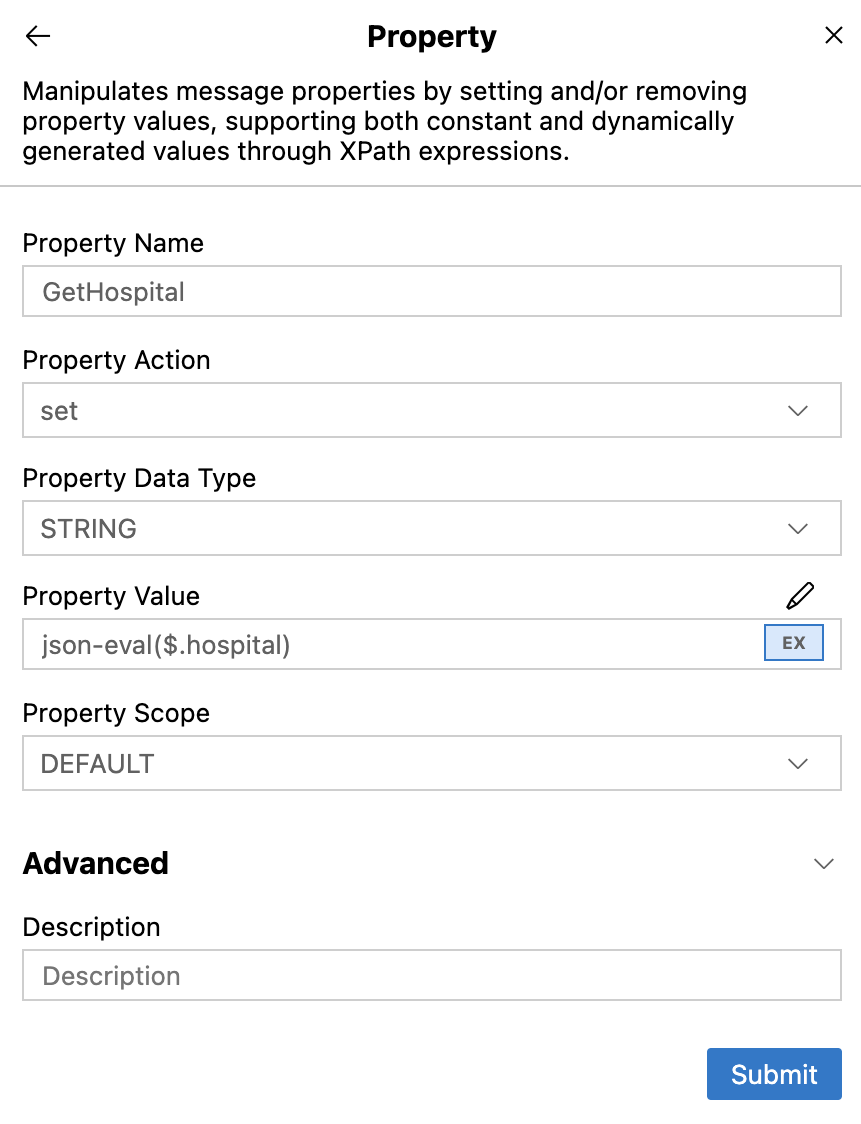
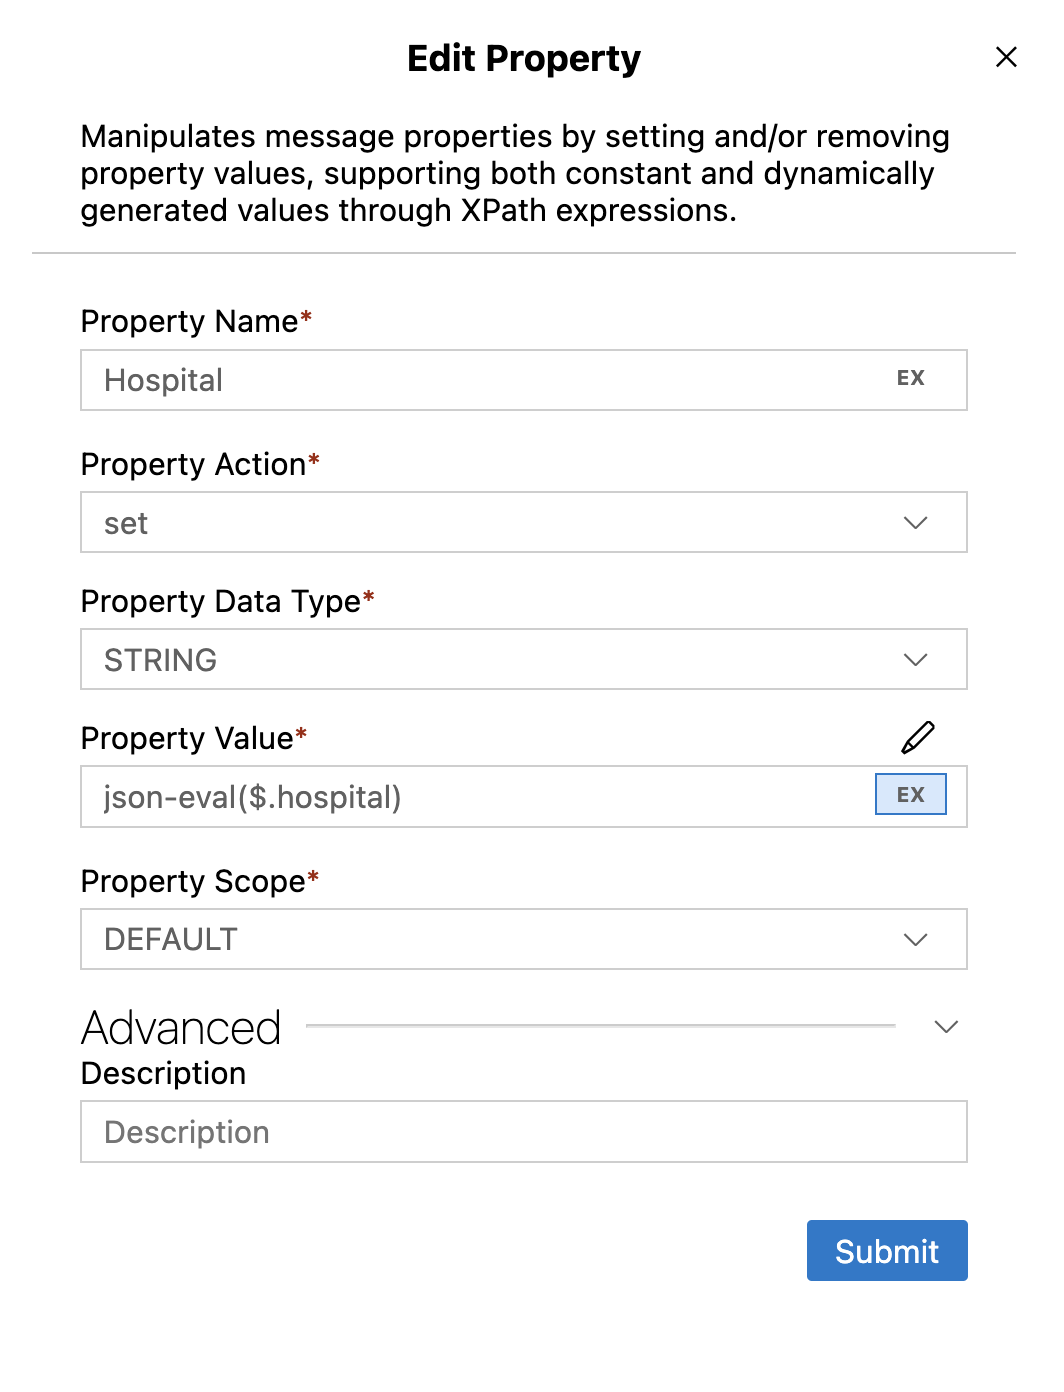
Update the property name

diff --git a/en/docs/learn/integration-tutorials/routing-requests-based-on-message-content.md b/en/docs/learn/integration-tutorials/routing-requests-based-on-message-content.md
@@ -200,7 +200,7 @@ You can now start configuring the API resource.
         </tr>
       <tr>
          <td>Property Name</td>
-         <td><code>GetHospital</code></td>
+         <td><code>Hospital</code></td>
       </tr>
       <tr>
          <td>Property Action</td>
